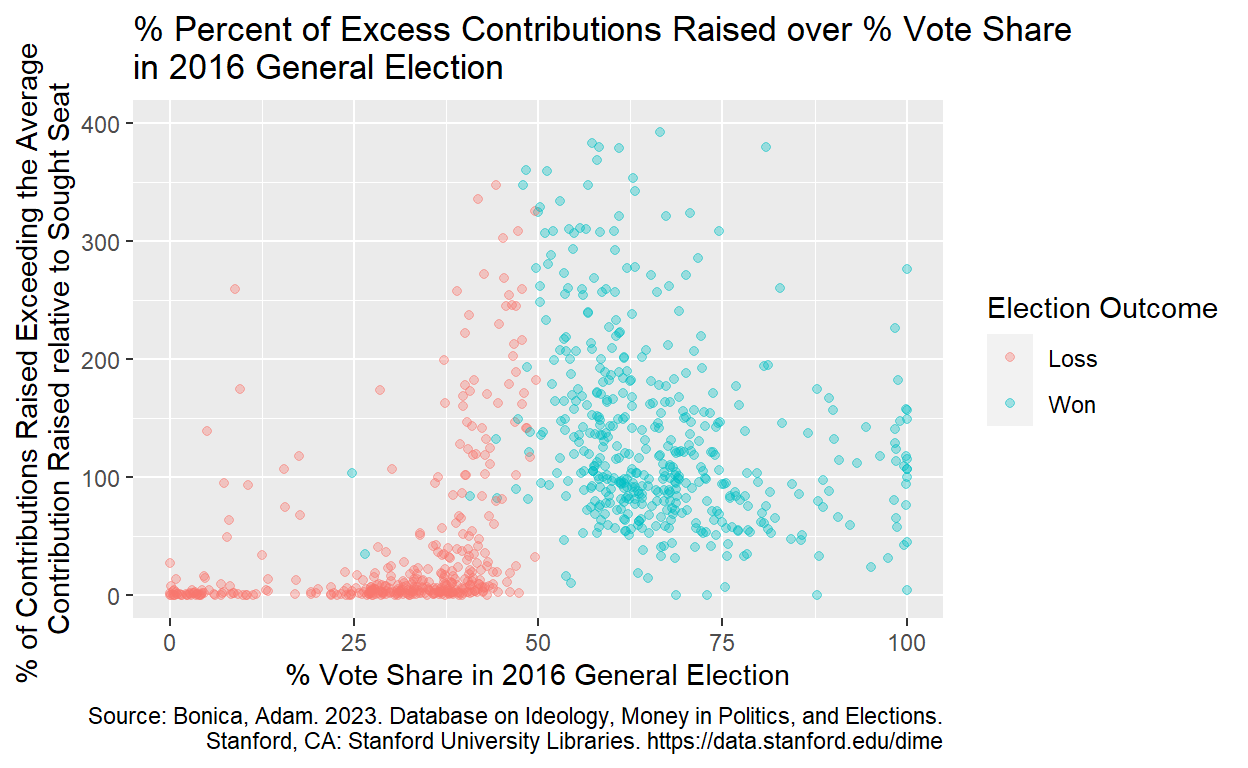
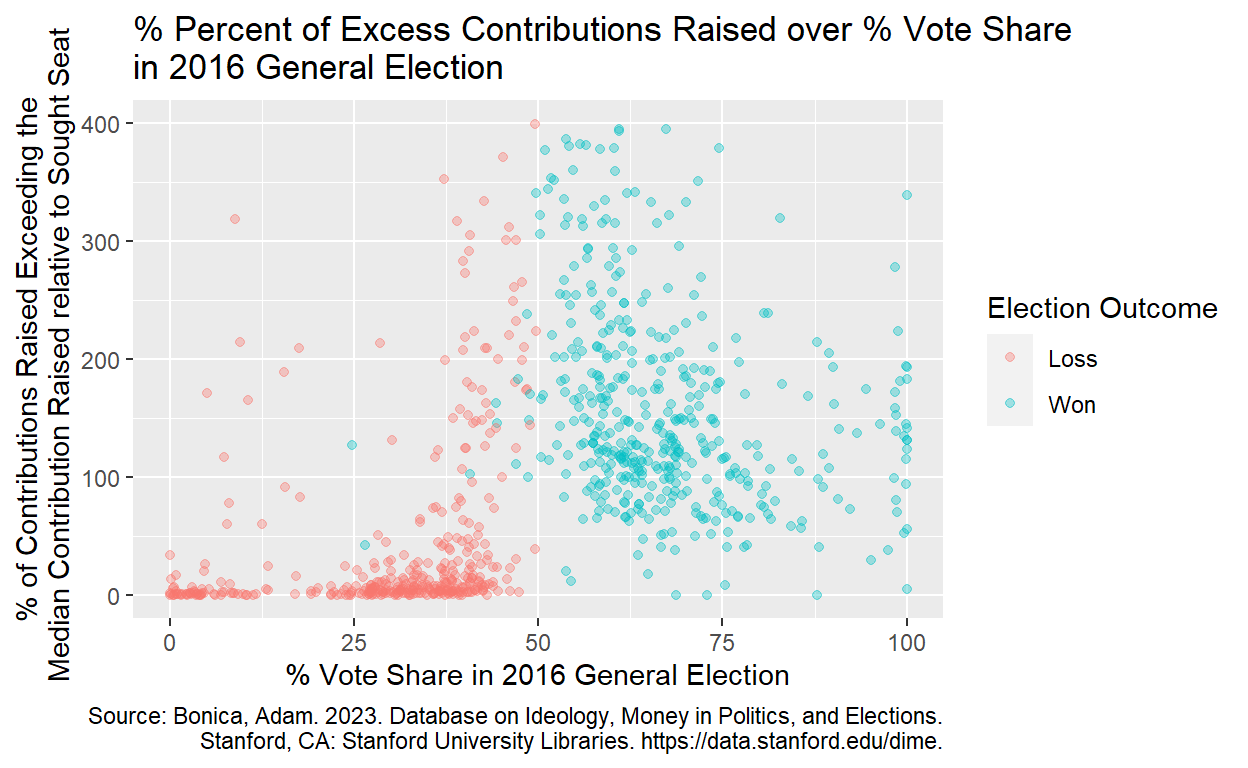
done

diff --git a/index.html b/index.html
@@ -115,7 +115,7 @@ code span.wa { color: #5e5e5e; font-style: italic; } /* Warning */
   <!--/radix_placeholder_rmarkdown_metadata-->
   
   <script type="text/json" id="radix-resource-manifest">
-  {"type":"character","attributes":{},"value":["Gov 50 Final Project/desktop.ini","Gov 50 Final Project/dime_recipients_1979_2020.csv","index_files/anchor-4.2.2/anchor.min.js","index_files/bowser-1.9.3/bowser.min.js","index_files/distill-2.2.21/template.v2.js","index_files/figure-html5/unnamed-chunk-6-1.png","index_files/header-attrs-2.17/header-attrs.js","index_files/header-attrs-2.24/header-attrs.js","index_files/header-attrs-2.25/header-attrs.js","index_files/jquery-3.6.0/jquery-3.6.0.js","index_files/jquery-3.6.0/jquery-3.6.0.min.js","index_files/jquery-3.6.0/jquery-3.6.0.min.map","index_files/popper-2.6.0/popper.min.js","index_files/tippy-6.2.7/tippy-bundle.umd.min.js","index_files/tippy-6.2.7/tippy-light-border.css","index_files/tippy-6.2.7/tippy.css","index_files/tippy-6.2.7/tippy.umd.min.js","index_files/webcomponents-2.0.0/webcomponents.js"]}
+  {"type":"character","attributes":{},"value":["Gov 50 Final Project/desktop.ini","Gov 50 Final Project/dime_recipients_1979_2020.csv","index_files/anchor-4.2.2/anchor.min.js","index_files/bowser-1.9.3/bowser.min.js","index_files/distill-2.2.21/template.v2.js","index_files/figure-html5/unnamed-chunk-6-1.png","index_files/figure-html5/unnamed-chunk-7-1.png","index_files/header-attrs-2.17/header-attrs.js","index_files/header-attrs-2.24/header-attrs.js","index_files/header-attrs-2.25/header-attrs.js","index_files/jquery-3.6.0/jquery-3.6.0.js","index_files/jquery-3.6.0/jquery-3.6.0.min.js","index_files/jquery-3.6.0/jquery-3.6.0.min.map","index_files/popper-2.6.0/popper.min.js","index_files/tippy-6.2.7/tippy-bundle.umd.min.js","index_files/tippy-6.2.7/tippy-light-border.css","index_files/tippy-6.2.7/tippy.css","index_files/tippy-6.2.7/tippy.umd.min.js","index_files/webcomponents-2.0.0/webcomponents.js"]}
   </script>
   <!--radix_placeholder_navigation_in_header-->
   <!--/radix_placeholder_navigation_in_header-->
@@ -1567,7 +1567,7 @@ code span.wa { color: #5e5e5e; font-style: italic; } /* Warning */
 <pre class="sourceCode r"><code class="sourceCode r"><span><span class='va'>dime_res_n</span> <span class='op'>&lt;-</span> <span class='va'>dime_res</span> <span class='op'>|&gt;</span></span>
 <span>  <span class='fu'><a href='https://dplyr.tidyverse.org/reference/filter.html'>filter</a></span><span class='op'>(</span><span class='va'>cycle</span> <span class='op'>==</span> <span class='fl'>2016</span><span class='op'>)</span> <span class='op'>|&gt;</span></span>
 <span>  <span class='fu'><a href='https://dplyr.tidyverse.org/reference/group_by.html'>group_by</a></span><span class='op'>(</span><span class='va'>seat</span><span class='op'>)</span> <span class='op'>|&gt;</span></span>
-<span>  <span class='fu'><a href='https://dplyr.tidyverse.org/reference/mutate.html'>mutate</a></span><span class='op'>(</span>nms <span class='op'>=</span> <span class='op'>(</span><span class='fl'>100</span> <span class='op'>*</span> <span class='op'>(</span><span class='va'>total.receipts</span><span class='op'>/</span><span class='fu'><a href='https://rdrr.io/r/base/mean.html'>mean</a></span><span class='op'>(</span><span class='va'>total.receipts</span><span class='op'>)</span><span class='op'>)</span><span class='op'>)</span><span class='op'>)</span> <span class='op'>|&gt;</span></span>
+<span>  <span class='fu'><a href='https://dplyr.tidyverse.org/reference/mutate.html'>mutate</a></span><span class='op'>(</span>nms <span class='op'>=</span> <span class='op'>(</span><span class='fl'>100</span> <span class='op'>*</span> <span class='op'>(</span><span class='va'>total.receipts</span><span class='op'>/</span><span class='fu'><a href='https://rdrr.io/r/stats/median.html'>median</a></span><span class='op'>(</span><span class='va'>total.receipts</span><span class='op'>)</span><span class='op'>)</span><span class='op'>)</span><span class='op'>)</span> <span class='op'>|&gt;</span></span>
 <span>  <span class='fu'><a href='https://tidyr.tidyverse.org/reference/drop_na.html'>drop_na</a></span><span class='op'>(</span><span class='va'>nms</span><span class='op'>)</span> <span class='op'>|&gt;</span></span>
 <span>  <span class='fu'><a href='https://dplyr.tidyverse.org/reference/mutate.html'>mutate</a></span><span class='op'>(</span><span class='fu'><a href='https://dplyr.tidyverse.org/reference/across.html'>across</a></span><span class='op'>(</span><span class='fu'><a href='https://rdrr.io/r/base/c.html'>c</a></span><span class='op'>(</span><span class='va'>`nms`</span><span class='op'>)</span>,<span class='va'>round</span>,<span class='fl'>2</span><span class='op'>)</span><span class='op'>)</span></span></code></pre>
 </div>
@@ -1584,15 +1584,42 @@ code span.wa { color: #5e5e5e; font-style: italic; } /* Warning */
 <span>  <span class='fu'><a href='https://ggplot2.tidyverse.org/reference/ggplot.html'>ggplot</a></span><span class='op'>(</span><span class='fu'><a href='https://ggplot2.tidyverse.org/reference/aes.html'>aes</a></span><span class='op'>(</span>y <span class='op'>=</span> <span class='va'>nms</span>, x <span class='op'>=</span> <span class='va'>gen.vote.pct</span><span class='op'>)</span><span class='op'>)</span> <span class='op'>+</span> </span>
 <span>  <span class='fu'><a href='https://ggplot2.tidyverse.org/reference/geom_point.html'>geom_point</a></span><span class='op'>(</span><span class='fu'><a href='https://ggplot2.tidyverse.org/reference/aes.html'>aes</a></span><span class='op'>(</span>color <span class='op'>=</span> <span class='va'>`Election Outcome`</span><span class='op'>)</span>, alpha <span class='op'>=</span> <span class='fl'>0.35</span><span class='op'>)</span> <span class='op'>+</span> </span>
 <span>  <span class='fu'><a href='https://ggplot2.tidyverse.org/reference/scale_continuous.html'>scale_y_continuous</a></span><span class='op'>(</span>limits <span class='op'>=</span> <span class='fu'><a href='https://rdrr.io/r/base/c.html'>c</a></span><span class='op'>(</span><span class='fl'>0</span>,<span class='fl'>400</span><span class='op'>)</span><span class='op'>)</span> <span class='op'>+</span> </span>
-<span>  <span class='fu'><a href='https://ggplot2.tidyverse.org/reference/labs.html'>labs</a></span><span class='op'>(</span>y <span class='op'>=</span> <span class='st'>"% of Contributions Raised Exceeding the Average \nContribution Raised relative to Sought Seat"</span>,</span>
+<span>  <span class='fu'><a href='https://ggplot2.tidyverse.org/reference/labs.html'>labs</a></span><span class='op'>(</span>y <span class='op'>=</span> <span class='st'>"% of Contributions Raised Exceeding the\n Median Contribution Raised relative to Sought Seat"</span>,</span>
 <span>       x <span class='op'>=</span> <span class='st'>"% Vote Share in 2016 General Election"</span>,</span>
-<span>       caption <span class='op'>=</span> <span class='st'>"Source: Bonica, Adam. 2023. Database on Ideology, Money in Politics, and Elections.\n Stanford, CA: Stanford University Libraries. https://data.stanford.edu/dime"</span>,</span>
+<span>       caption <span class='op'>=</span> <span class='st'>"Source: Bonica, Adam. 2023. Database on Ideology, Money in Politics, and Elections.\n Stanford, CA: Stanford University Libraries. https://data.stanford.edu/dime."</span>,</span>
 <span>       title <span class='op'>=</span> <span class='st'>"% Percent of Excess Contributions Raised over % Vote Share \nin 2016 General Election"</span><span class='op'>)</span></span>
 <span><span class='va'>nms_gvc</span></span></code></pre>
 </div>
 <p><img src="index_files/figure-html5/unnamed-chunk-6-1.png" width="624" /></p>
 </div>
-<div class="sourceCode" id="cb1"><pre class="sourceCode r distill-force-highlighting-css"><code class="sourceCode r"></code></pre></div>
+<h2 id="final-project-milestone-4">Final Project Milestone 4</h2>
+<div class="layout-chunk" data-layout="l-body">
+<div class="sourceCode">
+<pre class="sourceCode r"><code class="sourceCode r"><span><span class='va'>seat_bar</span> <span class='op'>&lt;-</span> <span class='va'>dime_res_n</span> <span class='op'>|&gt;</span></span>
+<span>  <span class='fu'><a href='https://dplyr.tidyverse.org/reference/filter.html'>filter</a></span><span class='op'>(</span><span class='va'>seat</span> <span class='op'>==</span> <span class='st'>"federal:senate"</span> <span class='op'>|</span> <span class='va'>seat</span> <span class='op'>==</span> <span class='st'>"federal:house"</span><span class='op'>)</span> <span class='op'>|&gt;</span></span>
+<span>  <span class='fu'><a href='https://dplyr.tidyverse.org/reference/filter.html'>filter</a></span><span class='op'>(</span><span class='va'>nms</span> <span class='op'>&gt;=</span> <span class='fl'>100</span><span class='op'>)</span> <span class='op'>|&gt;</span></span>
+<span>  <span class='fu'><a href='https://dplyr.tidyverse.org/reference/group_by.html'>group_by</a></span><span class='op'>(</span><span class='va'>seat</span><span class='op'>)</span> <span class='op'>|&gt;</span></span>
+<span>  <span class='fu'><a href='https://dplyr.tidyverse.org/reference/mutate.html'>mutate</a></span><span class='op'>(</span>win_bin <span class='op'>=</span> <span class='fu'><a href='https://dplyr.tidyverse.org/reference/if_else.html'>if_else</a></span><span class='op'>(</span><span class='va'>gwinner</span> <span class='op'>==</span> <span class='st'>"W"</span>, <span class='fl'>1</span>,<span class='fl'>0</span><span class='op'>)</span><span class='op'>)</span> <span class='op'>|&gt;</span></span>
+<span>  <span class='fu'><a href='https://dplyr.tidyverse.org/reference/summarise.html'>summarize</a></span><span class='op'>(</span>prop_win <span class='op'>=</span> <span class='fu'><a href='https://rdrr.io/r/base/mean.html'>mean</a></span><span class='op'>(</span><span class='va'>win_bin</span><span class='op'>)</span><span class='op'>)</span> <span class='op'>|&gt;</span></span>
+<span>  <span class='fu'><a href='https://dplyr.tidyverse.org/reference/rename.html'>rename</a></span><span class='op'>(</span>Seat <span class='op'>=</span> <span class='va'>seat</span><span class='op'>)</span> <span class='op'>|&gt;</span></span>
+<span>  <span class='fu'><a href='https://dplyr.tidyverse.org/reference/mutate.html'>mutate</a></span><span class='op'>(</span><span class='fu'><a href='https://dplyr.tidyverse.org/reference/across.html'>across</a></span><span class='op'>(</span><span class='fu'><a href='https://rdrr.io/r/base/c.html'>c</a></span><span class='op'>(</span><span class='va'>`prop_win`</span><span class='op'>)</span>,<span class='va'>round</span>,<span class='fl'>2</span><span class='op'>)</span><span class='op'>)</span> <span class='op'>|&gt;</span></span>
+<span>  <span class='fu'><a href='https://dplyr.tidyverse.org/reference/mutate.html'>mutate</a></span><span class='op'>(</span>Seat <span class='op'>=</span> <span class='fu'><a href='https://dplyr.tidyverse.org/reference/if_else.html'>if_else</a></span><span class='op'>(</span><span class='va'>Seat</span> <span class='op'>==</span> <span class='st'>"federal:house"</span>, <span class='st'>"House of Representatives"</span>, <span class='st'>"Senate"</span><span class='op'>)</span><span class='op'>)</span></span>
+<span><span class='va'>seat_bar</span></span></code></pre>
+</div>
+<pre><code># A tibble: 2 × 2
+  Seat                     prop_win
+  &lt;chr&gt;                       &lt;dbl&gt;
+1 House of Representatives     0.86
+2 Senate                       0.63</code></pre>
+<div class="sourceCode">
+<pre class="sourceCode r"><code class="sourceCode r"><span><span class='va'>bar</span> <span class='op'>&lt;-</span> <span class='va'>seat_bar</span> <span class='op'>|&gt;</span> </span>
+<span>  <span class='fu'><a href='https://ggplot2.tidyverse.org/reference/ggplot.html'>ggplot</a></span><span class='op'>(</span><span class='fu'><a href='https://ggplot2.tidyverse.org/reference/aes.html'>aes</a></span><span class='op'>(</span>x <span class='op'>=</span> <span class='va'>Seat</span>, y <span class='op'>=</span> <span class='va'>prop_win</span>, fill <span class='op'>=</span> <span class='va'>Seat</span> <span class='op'>)</span><span class='op'>)</span> <span class='op'>+</span> <span class='fu'><a href='https://ggplot2.tidyverse.org/reference/geom_bar.html'>geom_bar</a></span><span class='op'>(</span>stat<span class='op'>=</span><span class='st'>'identity'</span>, width<span class='op'>=</span><span class='fl'>.5</span><span class='op'>)</span> <span class='op'>+</span> <span class='fu'><a href='https://ggplot2.tidyverse.org/reference/labs.html'>labs</a></span><span class='op'>(</span>x <span class='op'>=</span> <span class='st'>"Seat Sought"</span>, y <span class='op'>=</span> <span class='st'>"Proportion of Candidates that Won"</span>,caption <span class='op'>=</span> <span class='st'>"Source: Bonica, Adam. 2023. Database on Ideology, Money in Politics, and Elections.\n Stanford, CA: Stanford University Libraries. https://data.stanford.edu/dime."</span>, title <span class='op'>=</span> <span class='st'>"Proportion of Candidates that Won that Median Contribution\n Raised relative to Sought Seat"</span><span class='op'>)</span> <span class='op'>+</span> <span class='fu'><a href='https://ggplot2.tidyverse.org/reference/scale_manual.html'>scale_fill_manual</a></span><span class='op'>(</span>values <span class='op'>=</span> <span class='fu'><a href='https://rdrr.io/r/base/c.html'>c</a></span><span class='op'>(</span><span class='st'>"darkblue"</span>, <span class='st'>"darkred"</span><span class='op'>)</span><span class='op'>)</span> <span class='op'>+</span> <span class='fu'><a href='https://ggplot2.tidyverse.org/reference/geom_abline.html'>geom_hline</a></span><span class='op'>(</span>yintercept <span class='op'>=</span> <span class='fl'>0.5</span><span class='op'>)</span> <span class='op'>+</span> <span class='fu'><a href='https://ggplot2.tidyverse.org/reference/geom_text.html'>geom_text</a></span><span class='op'>(</span><span class='fu'><a href='https://ggplot2.tidyverse.org/reference/aes.html'>aes</a></span><span class='op'>(</span>label <span class='op'>=</span> <span class='va'>prop_win</span><span class='op'>)</span>, vjust <span class='op'>=</span> <span class='fl'>1.5</span>, colour <span class='op'>=</span> <span class='st'>"white"</span><span class='op'>)</span></span>
+<span><span class='va'>bar</span></span></code></pre>
+</div>
+<p><img src="index_files/figure-html5/unnamed-chunk-7-1.png" width="624" /></p>
+</div>
+<p>This graph shows that candidates for both the Federal House of Representatives and Federal Senate who raised contributions above the median contributions raised relative to their sought seat were more than 50% likely to win their election. 85.5% of House candidates and 63% of Senate Candidates won. This reveals a strong correlation between robust contributions and winning elections. This correlation seems more impactful in elections with smaller voting populations, as more House candidates won than Senate candidates.</p>
+<div class="sourceCode" id="cb2"><pre class="sourceCode r distill-force-highlighting-css"><code class="sourceCode r"></code></pre></div>
 <!--radix_placeholder_article_footer-->
 <!--/radix_placeholder_article_footer-->
 </div>
